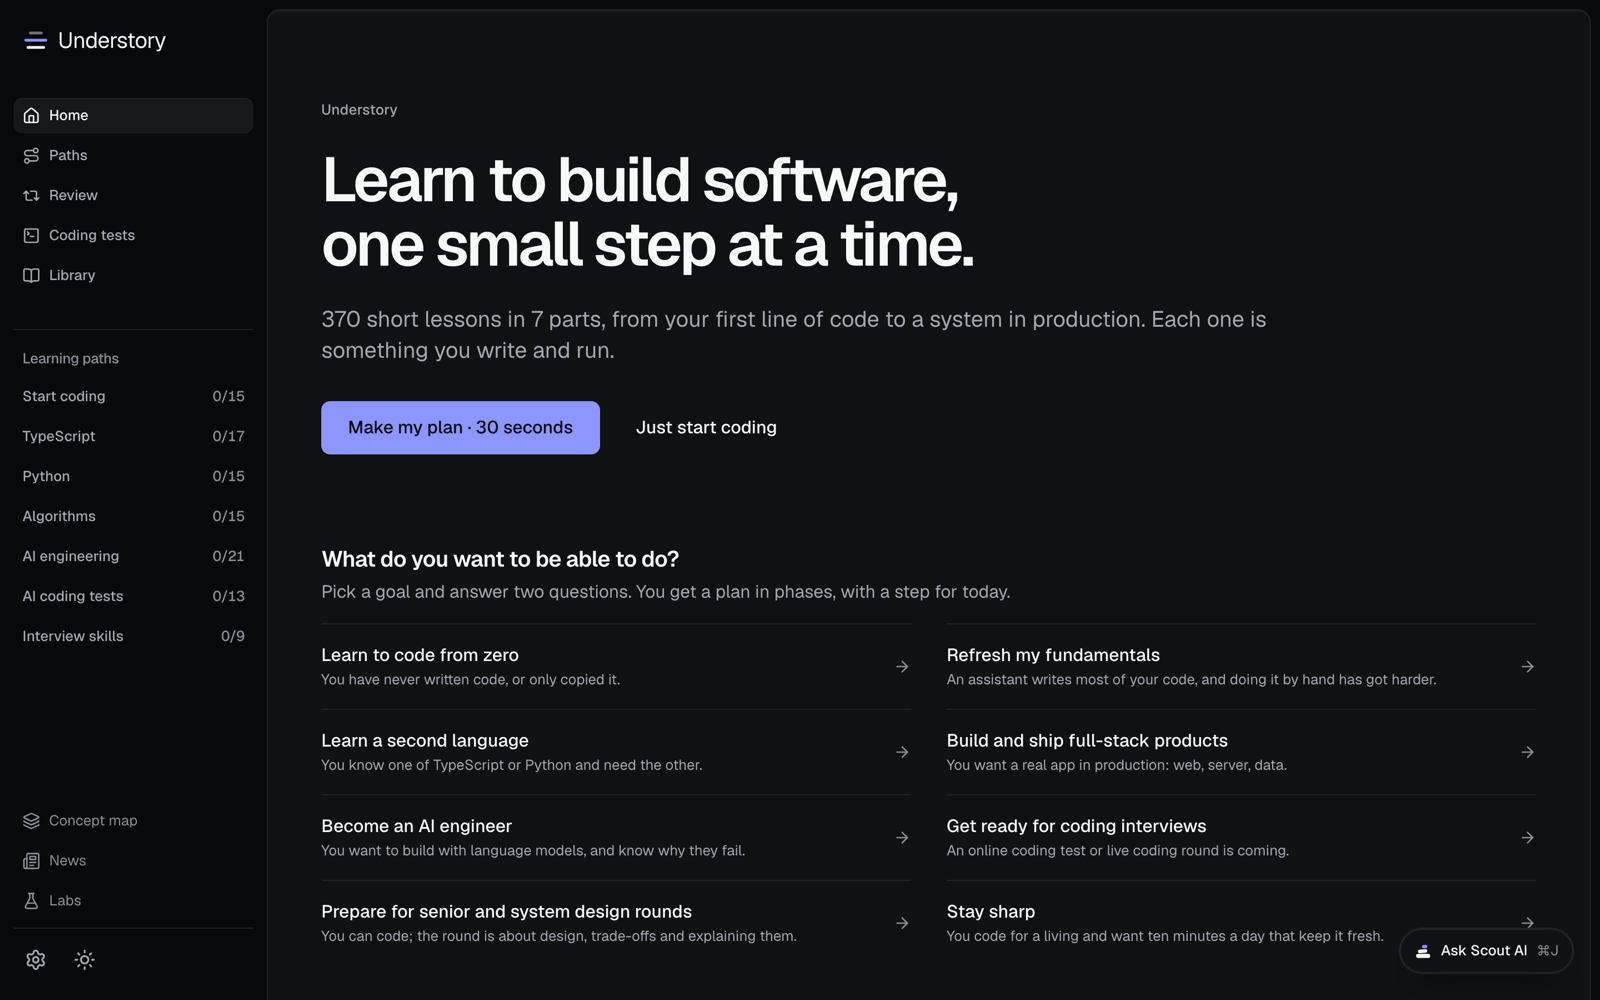
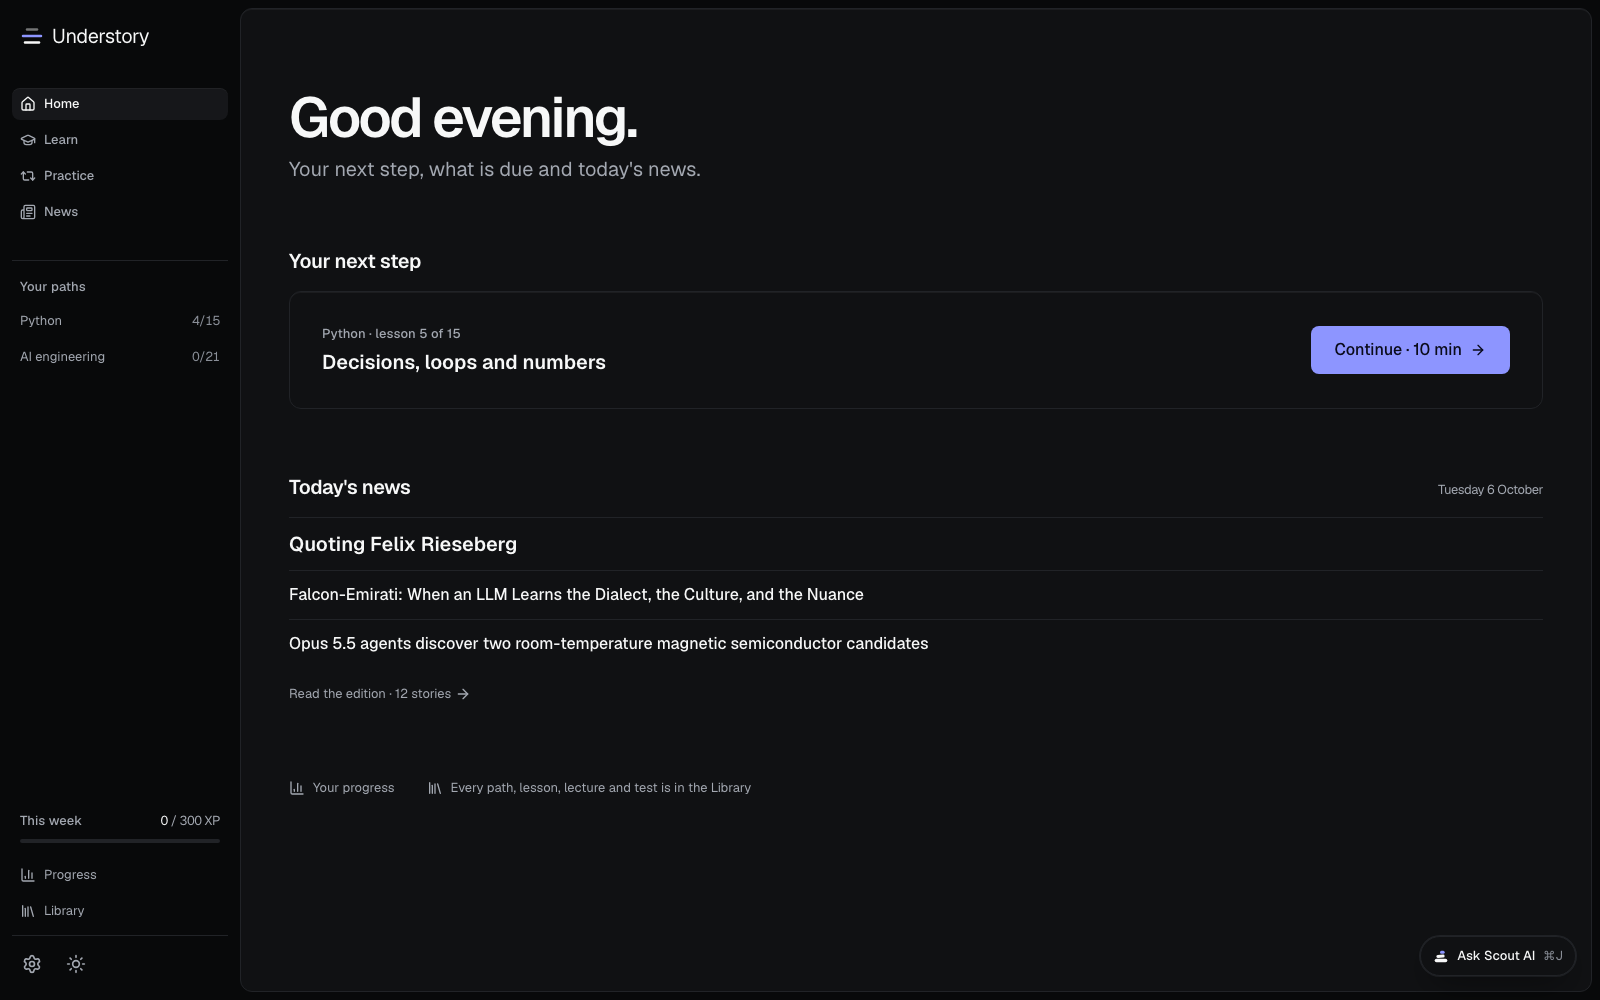
Bring the README up to the four places, multi-path Learn, Practice and News

diff --git a/README.md b/README.md
@@ -19,6 +19,7 @@
   <a href="#a-note-before-you-start">Why this exists</a> ·
   <a href="#meet-scout-your-ai-tutor">Scout AI</a> ·
   <a href="#start-here">Start here</a> ·
+  <a href="#four-places">Four places</a> ·
   <a href="#how-it-works">How it works</a> ·
   <a href="#inside-a-lesson">Inside a lesson</a> ·
   <a href="#the-course">The course</a> ·
@@ -83,7 +84,7 @@ no server holding your progress. It works offline and on a phone.
 <p align="center">
   <picture>
     <source media="(prefers-color-scheme: dark)" srcset="docs/assets/readme/home-dark.png">
-    <img alt="The home screen: a headline, a button to make a plan in 30 seconds, and eight goals to pick from." src="docs/assets/readme/home-light.png" width="100%">
+    <img alt="Home: a greeting, the next lesson on your path with a Continue button, and the first stories from today's news. The rail on the left lists Home, Learn, Practice and News, your paths with their progress, and this week's XP." src="docs/assets/readme/home-light.png" width="100%">
   </picture>
 </p>
 
@@ -102,10 +103,14 @@ answer. It replies with short explanations and highlighted code you can copy.
 
 It is built to keep you thinking. On an exercise it gives a hint first, then a nudge, and
 the full answer only when you ask. It stays out of timed exams, checkpoints and test-outs,
-which measure what you know without help. Away from a lesson it is a guide: ask where to
-start or which option on a page fits you. In the coding
-simulator the same assistant plays the one employers switch on, and every prompt goes into
-your report.
+which measure what you know without help.
+
+Away from a lesson it is a guide. It knows every page in the app and where you are on your
+paths, so you can ask where to start, what to practise or where yesterday's news went, and
+it answers with a link that takes you there. On a wide screen it docks beside the page
+instead of covering it, so the lesson and the answer stay side by side; on a phone it opens
+as a sheet. In the coding simulator the same assistant plays the one employers switch on,
+and every prompt goes into your report.
 
 ### It runs on your own Claude
 
@@ -132,17 +137,22 @@ The details, including the shared store a serverless host needs for MCP, are in
 
 ## Start here
 
-Answer three questions and get a plan: what you want to be able to do, how much time you
-have each week, and where you are starting from. The plan comes in phases drawn from the
-learning paths, with one step for today and an exam at the end of each phase.
+The first visit asks five short questions, most answered with one tap: what you want (learn
+it all, a first job, refresh and then specialise, AI engineering, interviews, or just the
+news), which topics you care about, where you are starting from, how much time you have each
+week, and whether Home should show today's news. The answers set up everything else: your
+path, the order of practice topics, and what Home leads with. You can change them any time
+in Settings.
+
+Then choose one or more learning paths. Each is three or four stages of lessons from the
+full course, and ends in a timed final exam and a certificate. Follow several at once and
+switch between them with tabs on Learn, or build your own path: pick whole parts, open one to
+choose individual chapters, or go down to single lessons.
 
 <picture>
-  <source media="(prefers-color-scheme: dark)" srcset="docs/assets/readme/plan-dark.png">
-  <img alt="A plan to become an AI engineer: 6 hours at about 3.5 hours a week, today's lesson with a start button, and the first phase, Python properly, with its lessons." src="docs/assets/readme/plan-light.png" width="100%">
+  <source media="(prefers-color-scheme: dark)" srcset="docs/assets/readme/learn-dark.png">
+  <img alt="Learn, with two chosen paths as tabs. The Python path shows a search box for any lesson, the next lesson with a Continue button and the path's progress, then its first stage with four lessons done." src="docs/assets/readme/learn-light.png" width="100%">
 </picture>
-
-Or pick a learning path yourself. Each one is three or four stages of lessons from the full
-course, and ends in a timed final exam and a certificate.
 
 | If this is you                                               | Take this path                                                      | Lessons | You leave able to                                                             |
 | ------------------------------------------------------------ | ------------------------------------------------------------------- | :-----: | ----------------------------------------------------------------------------- |
@@ -151,23 +161,53 @@ course, and ends in a timed final exam and a certificate.
 | Your next role or round uses Python                          | [Python](content/tracks/python.yaml)                                |   15    | Write clean, typed Python by hand                                             |
 | Someone will watch you solve a problem live                  | [Algorithms and coding patterns](content/tracks/coding-rounds.yaml) |   15    | Recognise the pattern behind a question and code it cleanly, out loud         |
 | The role is about building products on language models       | [AI engineering](content/tracks/ai-engineering.yaml)                |   21    | Build a RAG pipeline, a production model client and an agent loop             |
-| Your next step is an online coding test with an AI assistant | [AI-assisted coding tests](content/tracks/ai-coding-tests.yaml)     |   13    | Solve timed tasks against hidden tests, with the AI as an assistant you steer |
+| Your next step is an online coding test with an AI assistant | [AI-assisted coding tests](content/tracks/ai-coding-tests.yaml)     |   11    | Solve timed tasks against hidden tests, with the AI as an assistant you steer |
 | You have rounds that are about talking, not coding           | [Interviews and system design](content/tracks/interview-loop.yaml)  |    9    | Talk through your work, design a system and answer behavioural questions      |
 
-Not sure where you stand? The placement test at `/start` climbs 30 questions from first
-steps to race conditions and prompt injection, and tells you where to begin.
+Every stage lists what to try once its lessons are done, marked optional and recommended: a
+practice session on just that stage, the labs that show its mechanisms, and the timed
+coding tests it prepares you for. A path you build yourself gets the same, chapter by
+chapter.
+
+Not sure where you stand? The level check at `/start` climbs 30 questions from first steps
+to race conditions and prompt injection, lets you go back a question, and tells you where to
+begin.
+
+## Four places
+
+The navigation holds four places and nothing else. Everything the course has is still there,
+one step away.
+
+| Place        | What it is for                                                                                                                 |
+| ------------ | ------------------------------------------------------------------------------------------------------------------------------ |
+| **Home**     | Your next step on your path, what is due for practice, and the top of today's news.                                            |
+| **Learn**    | Your chosen paths and their stages, a search for any lesson, and the whole course one link away.                               |
+| **Practice** | One question: what to practise today. Pick topics and a length, then start. Timed coding tests and part checks sit underneath. |
+| **News**     | Today's edition, earlier ones by arrow, calendar or archive.                                                                   |
+
+On a wide screen the rail beside them shows your paths with their progress, how many
+practice questions are due, and this week's XP against your goal. **Progress** has the
+figures and the concept map, scoped to one path, part or the whole course. The **Library**
+holds every path, chapter, lecture, lab and test to browse. **Settings** holds your answers,
+your weekly goal, export and import, and the offline download.
+
+<picture>
+  <source media="(prefers-color-scheme: dark)" srcset="docs/assets/readme/practice-dark.png">
+  <img alt="Practice: today's session of 14 questions on Python and AI engineering, a 5, 10 or 20 minute choice and a Start button, then the topics with how many questions each has new or due, and the timed tests underneath." src="docs/assets/readme/practice-light.png" width="100%">
+</picture>
 
 ## How it works
 
 |              | What you do                                                                                         | What is underneath                                                                                                                         |
 | ------------ | --------------------------------------------------------------------------------------------------- | ------------------------------------------------------------------------------------------------------------------------------------------ |
-| **Plan**     | Pick a goal, your time and your starting point. Get phases and a step for today.                    | Built from the learning paths and your progress; answers and progress live in the event log on your device.                                |
+| **Set up**   | Five short questions, then one or more paths, or a path you build from parts, chapters or lessons.  | Built from the learning paths and your progress; answers and progress live in the event log on your device.                                |
 | **Learn**    | Short lessons, one idea per screen. An explanation first, then you build, fix, predict or review.   | 370 lessons in 30 chapters. Every exercise has a solution that the build runs against its own tests before it ships.                       |
 | **Ask**      | Scout AI beside any lesson or page, on your own Claude.                                             | It reads the step on screen, answers in Markdown with highlighted code, and never sits in an exam.                                         |
-| **Practise** | Spaced, mixed review sessions, sized before you start. A concept map that fades as memory does.     | FSRS scheduling, a mastery model per concept and confidence ratings on each answer. See [`LEARNING-SCIENCE.md`](docs/LEARNING-SCIENCE.md). |
+| **Practise** | Spaced, mixed sessions by topic, due items first, sized before you start.                           | FSRS scheduling, a mastery model per concept and confidence ratings on each answer. See [`LEARNING-SCIENCE.md`](docs/LEARNING-SCIENCE.md). |
 | **Rehearse** | Timed online coding tests in a simulator, with an optional guided mode.                             | 30 original tasks with hidden correctness and performance tests. See [Practise the real test](#practise-the-real-test).                    |
 | **Prove it** | A checkpoint and capstone at the end of each part. A final exam at the end of each path.            | Capstones come with worked solutions, each built and tested as a real project.                                                             |
-| **Read**     | Every lesson as a lecture: the explanation, worked examples, every solution, the lines to remember. | Readable per lesson, chapter, part or path. Downloadable as PDF and as an audiobook with chapters.                                         |
+| **Track it** | A Progress page for one path, one part or everything: lessons, mastery, activity, what to do next.  | Derived from the event log, never stored. The concept map fades each concept as memory does.                                               |
+| **Read**     | Every lesson as a lecture: the explanation, worked examples, every solution, the lines to remember. | Read in the app per lesson, chapter, part or path, or download it as a PDF and as an audiobook with chapters.                              |
 | **Keep up**  | A daily digest of software and AI news, each item linked to the lessons underneath it.              | 41 verified feeds, fetched by a scheduled GitHub Action. See [Keep up with the field](#keep-up-with-the-field).                            |
 
 Nothing in the course asks you to do arithmetic in your head. Every scored step asks you to
@@ -177,6 +217,12 @@ do something a working engineer does: write code, fix it, read it, review it or 
 
 A lesson is a sequence of steps. There are 13 kinds, and at least half the scored steps in
 every lesson are active: you write or change something and it runs.
+
+One bar at the bottom carries every step: Back on the left, then Skip for now, how sure you
+are (Guess, Pretty sure or Certain) and Check. Saying how sure you are before you check is
+what makes a confident mistake stick once it is corrected. A refresh or a closed tab brings
+you back to the same step, the book icon opens the lesson as a lecture in a new tab, and
+closing the lesson returns you to the page you opened it from.
 
 **Code challenges** run against hidden tests, in JavaScript, TypeScript or Python. Unplugged steps switch off autocomplete, so the answer is yours. Each hint lowers the score.
 
@@ -232,17 +278,18 @@ every lesson are active: you write or change something and it runs.
 Every screen is designed from 390 px up and checked at 390, 768, 1024 and 1440 px, in light
 and dark. Writing code on a phone gets its own editor: a suggestion row above the keyboard,
 snippet gaps you tap to fill, trackpad-style cursor keys and a full-screen mode. See
-[`MOBILE-EDITING.md`](docs/MOBILE-EDITING.md). Scout opens as a sheet over the lesson.
+[`MOBILE-EDITING.md`](docs/MOBILE-EDITING.md). On a phone the four places sit in a tab bar,
+and Scout opens as a sheet over the lesson.
 
 <p align="center">
   <picture>
     <source media="(prefers-color-scheme: dark)" srcset="docs/assets/readme/phone-home-dark.png">
-    <img alt="The home screen on a phone." src="docs/assets/readme/phone-home-light.png" width="30%">
+    <img alt="Home on a phone: a greeting, the next lesson with a Continue button and today's news, with the tab bar below." src="docs/assets/readme/phone-home-light.png" width="30%">
   </picture>
   &nbsp;
   <picture>
-    <source media="(prefers-color-scheme: dark)" srcset="docs/assets/readme/phone-plan-dark.png">
-    <img alt="A plan on a phone, with today's lesson and a start button." src="docs/assets/readme/phone-plan-light.png" width="30%">
+    <source media="(prefers-color-scheme: dark)" srcset="docs/assets/readme/phone-learn-dark.png">
+    <img alt="Learn on a phone, with two paths as tabs, a lesson search and the next lesson with a Continue button." src="docs/assets/readme/phone-learn-light.png" width="30%">
   </picture>
   &nbsp;
   <picture>
@@ -929,12 +976,15 @@ the interview answers to remember.
 <p align="center">
   <picture>
     <source media="(prefers-color-scheme: dark)" srcset="docs/assets/readme/lectures-dark.png">
-    <img alt="The lectures page, with an audio player for the whole course and a PDF for each learning path." src="docs/assets/readme/lectures-light.png" width="100%">
+    <img alt="The lectures page in the Library: download the whole course, then each learning path as a lecture with a Read button and a PDF button." src="docs/assets/readme/lectures-light.png" width="100%">
   </picture>
 </p>
 
 - **Any scope.** Read one lesson, a chapter with its revision sheet, a part, a path or the
-  whole course, at `/lectures`.
+  whole course, at `/lectures` in the Library. Every row has Read, to read it in the app,
+  and PDF. On a long chapter the contents stay beside the text and scroll on their own.
+- **From where you are.** Each path stage links to its lecture, and a lesson opens its own
+  lecture in a new tab, so your place in the lesson stays put.
 - **PDF.** Each scope prints to its own PDF at build time.
 - **Audio.** Each scope has a narrated playlist that remembers where you stopped, and
   downloads as an audiobook with chapters.
@@ -942,8 +992,8 @@ the interview answers to remember.
 ## Practise the real test
 
 Most employers send a timed online coding test first, often with an AI assistant built in.
-Understory has an AI-assisted coding simulator of it, under **Coding tests**. It looks,
-runs and scores like the real thing, so on the day nothing is new.
+Understory has an AI-assisted coding simulator of it, under **Practice**, then **Timed
+coding tests**. It looks, runs and scores like the real thing, so on the day nothing is new.
 
 <picture>
   <source media="(prefers-color-scheme: dark)" srcset="docs/assets/readme/online-test-dark.png">
@@ -964,7 +1014,10 @@ runs and scores like the real thing, so on the day nothing is new.
   the AI and why, what to write yourself, what to let the AI write, when to optimise and
   when to submit. The build proves every guide ends in a solution that scores 100%.
 - **30 original tasks** across the classic assessment topics, in JavaScript, TypeScript
-  and Python, with 6 preset tests, 120-minute training on any task, and custom tests.
+  and Python, with 120-minute training on any task and custom tests.
+- **Ten tests, named for what they hold**, grouped as Start here (a one-task warm-up), Short
+  screens, With the AI assistant, and Full mocks, including one task in four levels. Each
+  path stage lists the tests and tasks it prepares you for.
 
 The assistant is Scout, on the same connection to your own Claude
 ([Meet Scout](#meet-scout-your-ai-tutor)). Here it knows the task, your code and the last
@@ -986,23 +1039,32 @@ format; the tasks and the code are our own.</sub>
 
 AI research moves faster than any course can be rewritten. A new model, method or tool
 lands every week, and it is easy to lose track of what matters. Understory has a news
-section for that: a short daily digest, plus a weekly and a monthly one, under **News**.
+section for that: a short daily edition under **News**, with the top of it on Home.
 
+<picture>
+  <source media="(prefers-color-scheme: dark)" srcset="docs/assets/readme/news-dark.png">
+  <img alt="News: the edition for one day as the title, with earlier and later arrows, a calendar and links to the week, the month and all editions. Stories are listed with a topic, a lead line and the source, and earlier editions sit in a column on the right." src="docs/assets/readme/news-light.png" width="100%">
+</picture>
+
+- **Read today, or any day before.** Arrows step to the edition before or after, a calendar
+  picks any day, and the archive lists every edition by week. The week and the month have
+  their own digest too.
 - **Where the news comes from.** 41 hand-checked sources, listed in
   [`content/feeds.yaml`](content/feeds.yaml): the AI labs and researchers (OpenAI, Google
   DeepMind, Hugging Face, Simon Willison, Sebastian Raschka, Lilian Weng, Import AI), the
   web platform and the tools the course teaches (web.dev, WebKit, Chrome, React, Next.js,
   Node.js, TypeScript, PostgreSQL), engineering and security writing (The Pragmatic
   Engineer, Martin Fowler, Julia Evans, Jepsen, PortSwigger, Trail of Bits), plus Hacker
-  News and arXiv.
+  News and arXiv. The info button beside the date says the same in the app.
 - **How it is picked.** Each morning a scheduled job fetches the sources, drops anything
   older than 72 hours, merges duplicates, and scores what is left by topic, source,
-  engagement and recency. The best dozen become the day's edition.
-- **How it is explained.** Every item gets a brief in a fixed shape: what happened, why it
-  matters, and the two to four key concepts behind it. Each links to the lessons underneath
-  it, so a headline about a new attention trick leads to the lesson on how models work.
-  With an Anthropic key the briefs are written by a model; without one they are drawn from
-  the source text.
+  engagement and recency. The best dozen become the day's edition, ordered by the topics
+  you chose.
+- **How it is explained.** Every story has a lead line, and opens to a brief in a fixed
+  shape: what happened, why it matters, and the two to four key concepts behind it. Each
+  links to the lessons underneath it, so a headline about a new attention trick leads to the
+  lesson on how models work. With an Anthropic key the briefs are written by a model;
+  without one they are drawn from the source text.
 
 The pipeline is a plain Node script, so it runs just as well from a timer on a server. The
 details are in [`SIGNAL.md`](docs/SIGNAL.md).
@@ -1046,7 +1108,7 @@ connect Claude to the simulator's assistant on Vercel, add a Redis store (see
 | Online tests        | An AI-assisted coding simulator. Each case runs alone in the sandbox and is judged by hash outside it        |
 | Assistant           | Your Claude account through an MCP server, your own Anthropic key, or Claude Code on your machine            |
 | Storage             | IndexedDB on the device, behind a port, so a sync adapter can replace it                                     |
-| Offline             | A service worker built after each build, and a course download in Settings                                   |
+| Offline             | A service worker built after each build, and a course download in Settings. Development clears it            |
 | Content             | Lessons in YAML, checked by a zod schema and a validator that runs every solution against its tests          |
 | iOS                 | `ios/UnderstoryKit`, a Swift package that reads the same content bundle. The app is in progress              |
 
